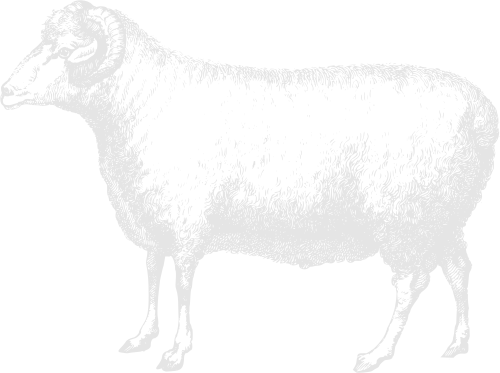
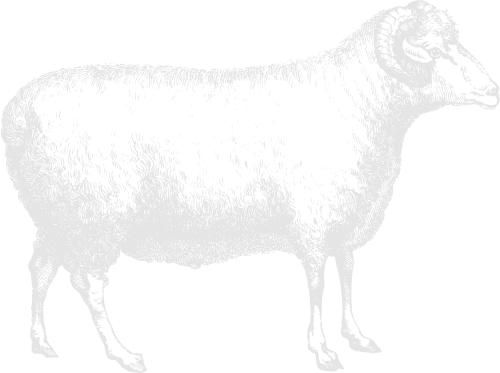
Update 2

diff --git a/index.html b/index.html
@@ -6,16 +6,24 @@
     </head>
     <body>
         <script>
-            function changeSheep(n=null) {
-                if (n == null) {
-                    n = Math.floor(Math.random() * 4);
-                }
-                img = document.getElementById("ram-image");
-                img.setAttribute("src", `./assets/sheep${n}.png`);
-                img.onclick = function() {changeSheep() };
-            }
+            //nSheep = null;
+            //totSheeps = 4;
+            //function changeSheep(n=null) {
+            //    if (n == null) {
+            //        nSheep = Math.floor(Math.random() * totSheeps);
+            //    }
+            //    img = document.getElementById("ram-image");
+            //    img.setAttribute("src", `./assets/sheep${nSheep}.png`);
+            //}
             window.onload = function() {
-                changeSheep();
+            //    changeSheep();
+            //    img.onclick = function() {
+            //        nSheep += 1;
+            //        if (nSheep == totSheeps) {
+            //            nSheep = 0;
+            //        }
+            //        changeSheep(nSheep)
+            //    };
             }
         </script>
         <main>
@@ -23,21 +31,29 @@
         <div id="main-container">
             <div class="column">
                 <h3>Coding</h3>
-                <a href="https://stackoverflow.com">StackOverflow</a>
-                <a href="https://github.com/">GitHub</a>
-            </div>
-            <div class="column">
-                <h3>Work</h3>
                 <div>
-                    <h4>Mail</h4>
-                    <div>
-                        <a href="https://gmail.com">Gmail</a>
-                        <a href="https://mail.protonmail.com"</a>
-                    </div>
+                    <h4>Learn</h4>
+                        <a href="https://stackoverflow.com">StackOverflow</a>
                 </div>
                 <div>
-                <h4>Latex</h4>
-                <a href="https://www.overleaf.com/">Overleaf</a>
+                    <h4>Repos</h4>
+                    <a href="https://github.com/">GitHub</a>
+                    <a href="https://gitlab.com">GitLab</a>
+                </div>
+                <div>
+                    <h4>Challenge</h4>
+                    <a href="https://adventofcode.com">AoC</a>
+                    <a href="https://www.codewars.com">CodeWars</a>
+                    <a href="https://www.codingame.com/start">CodinGame</a>
+                    <a href="https://leetcode.com">LeetCode</a>
+                    <a href="https://platform.topcoder.com/onboard">TopCoder</a>
+                    <a href="https://www.codechef.com">CodeChef</a>
+                    <a href="https://www.hackerrank.com">HackerRank</a>
+                </div>
+                <div>
+                    <h4>Hosting</h4>
+                    <a href="https://console.hetzner.cloud/projects">Hetzner</a>
+                    <a href="https://railway.app">Railway.app</a>
                 </div>
             </div>
             <div class="column">
@@ -51,6 +67,25 @@
                     <a href="https://www.reddit.com/r/bestofredditorupdates">r/BestOfRedditorUpdates</a>
                     <a href="https://www.reddit.com/r/unixporn">r/unixp*rn</a>
                 </div>
+                <div>
+                    <h4>Twitch</h4>
+                    <a href="https://www.twitch.tv/">Twitch</a>
+                    <a href="https://www.twitch.tv/directory/all/tags/0739209c-9ef5-4ae0-997c-ccbeb864ca61">#co-working</a>
+                </div>
+            </div>
+            <div class="column">
+                <h3>Work</h3>
+                <div>
+                    <h4>Mail</h4>
+                    <div>
+                        <a href="https://gmail.com">Gmail</a>
+                        <a href="https://mail.protonmail.com">ProtonMail</a>
+                    </div>
+                </div>
+                <div>
+                <h4>Latex</h4>
+                <a href="https://www.overleaf.com/">Overleaf</a>
+                </div>
             </div>
             <div class="column">
                 <h3>Utils</h3>
@@ -58,6 +93,7 @@
                 <h4>Langs</h4>
                 <a href="https://context.reverso.net/translation/">Context Reverso</a>
                 <a href="https://translate.google.com">Translate</a>
+                <a href="https://forvo.com">Forvo</a>
                 </div>
             </div>
             <div class="column">
@@ -66,10 +102,14 @@
             </div>
             <div class="column">
                 <h3>Fun</h3>
+                <div>
+                <h4>Games</h4>
                 <a href="https://geotastic.net">Geotastic</a>
+                <a href="https://codenames.game">CodeNames</a>
+                </div>
             </div>
         </div>
-        <img id="ram-image"/>
+        <img id="ram-image" src="./assets/MerinoRam.svg">
         </main>
     </body>
 </html>

diff --git a/style.css b/style.css
@@ -33,6 +33,7 @@
 html {
     height: 100%;
     margin: 0px;
+    overflow: 'hidden';
 }
 body {
     background-color: var(--background);
@@ -48,6 +49,8 @@ h1 {
 main {
     text-align: center;
     height: 100%;
+    overflow: 'hidden';
+    margin: 0px;
 }
 
 a, a:hover {
@@ -58,21 +61,30 @@ a, a:hover {
 
 #main-container {
     display: flex;
-    flex-direction: row;
-    justify-content: center;
+    flex-direction: column;
+    justify-content: left;
     gap: 10px;
-    max-width: 60%;
-    margin: auto;
     flex-wrap: wrap;
+    align-items: flex-start;
+    align-content: center;
+    height: 80%;
+    overflow: 'hidden';
+    margin: 0px;
+    flex: 1;
+    margin-left: 0;
+    margin-right: 0;
 }
 
-#main-container > div {
+.column {
     display: flex;
+    flex-wrap: wrap;
     flex-direction: column;
-    min-width: 200px;
+    min-width: 300px;
     border: solid 2px var(--purple);
-    border-radius: 5px;
+    border-radius: 10px;
     padding-bottom: 10px;
+    overflow: hidden;
+    min-height: 0;
 }
 .column > div {
     display: flex;
@@ -80,12 +92,13 @@ a, a:hover {
     justify-content: center;
     position: relative;
     min-height: 80px;
-    padding: 10px;
+    padding: 10px 25px 10px 25px;
     border: solid 0px black;
+    border-radius: 10px;
     background-color: var(--surface-1);
-    margin: 10px 10px 0px 10px;
-    padding: 10px;
+    margin: 5px 5px 0px 5px;
     text-align: center;
+    overflow:hidden;
 }
 
 .column > div > div {
@@ -94,6 +107,7 @@ a, a:hover {
     justify-content: center;
     margin: auto;
     text-align: center;
+    overflow: hidden;
 
 }
 
@@ -111,13 +125,13 @@ h4 {
     writing-mode: vertical-rl;
     color: var(--surface-4);
     text-transform: uppercase;
+    font-sieze: 20px;
 }
 
 #ram-image {
-    max-width: 200px;
+    width: 300px;
     position: absolute;
-    bottom: 10px;
-    left: 50%;
-    right: 50%;
-    transform: translateX(-50%);
+    left: 0px;
+    bottom: 0px;
+    overflow: hidden;
 }
